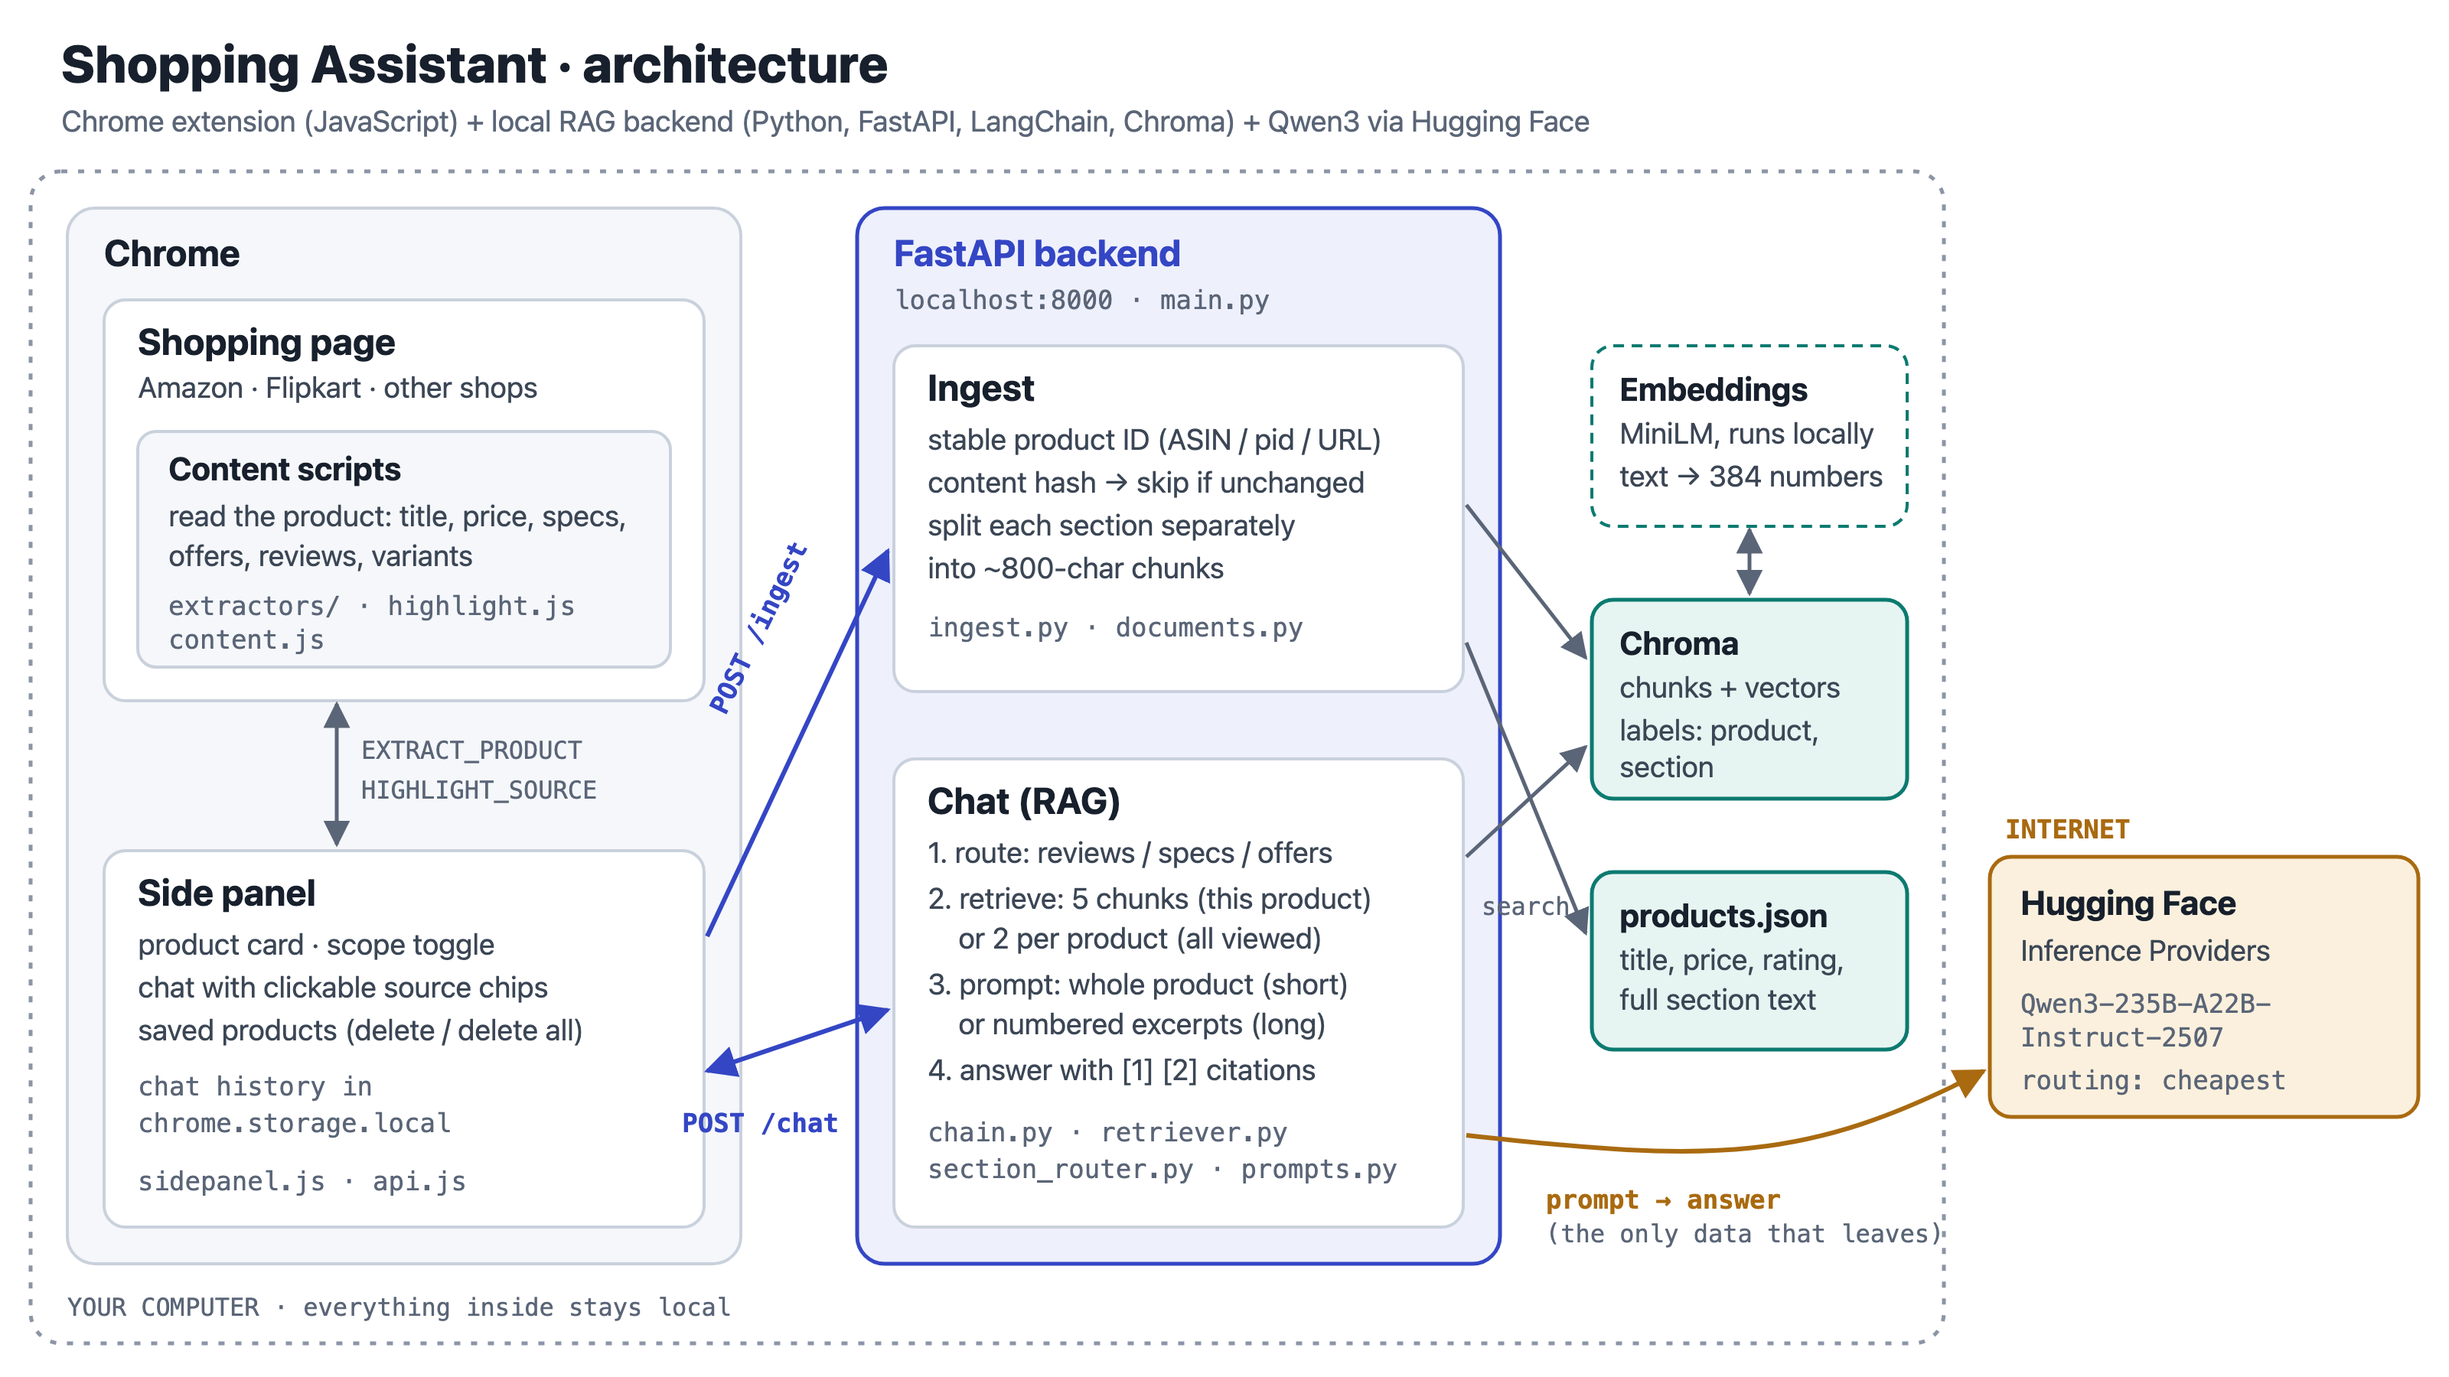
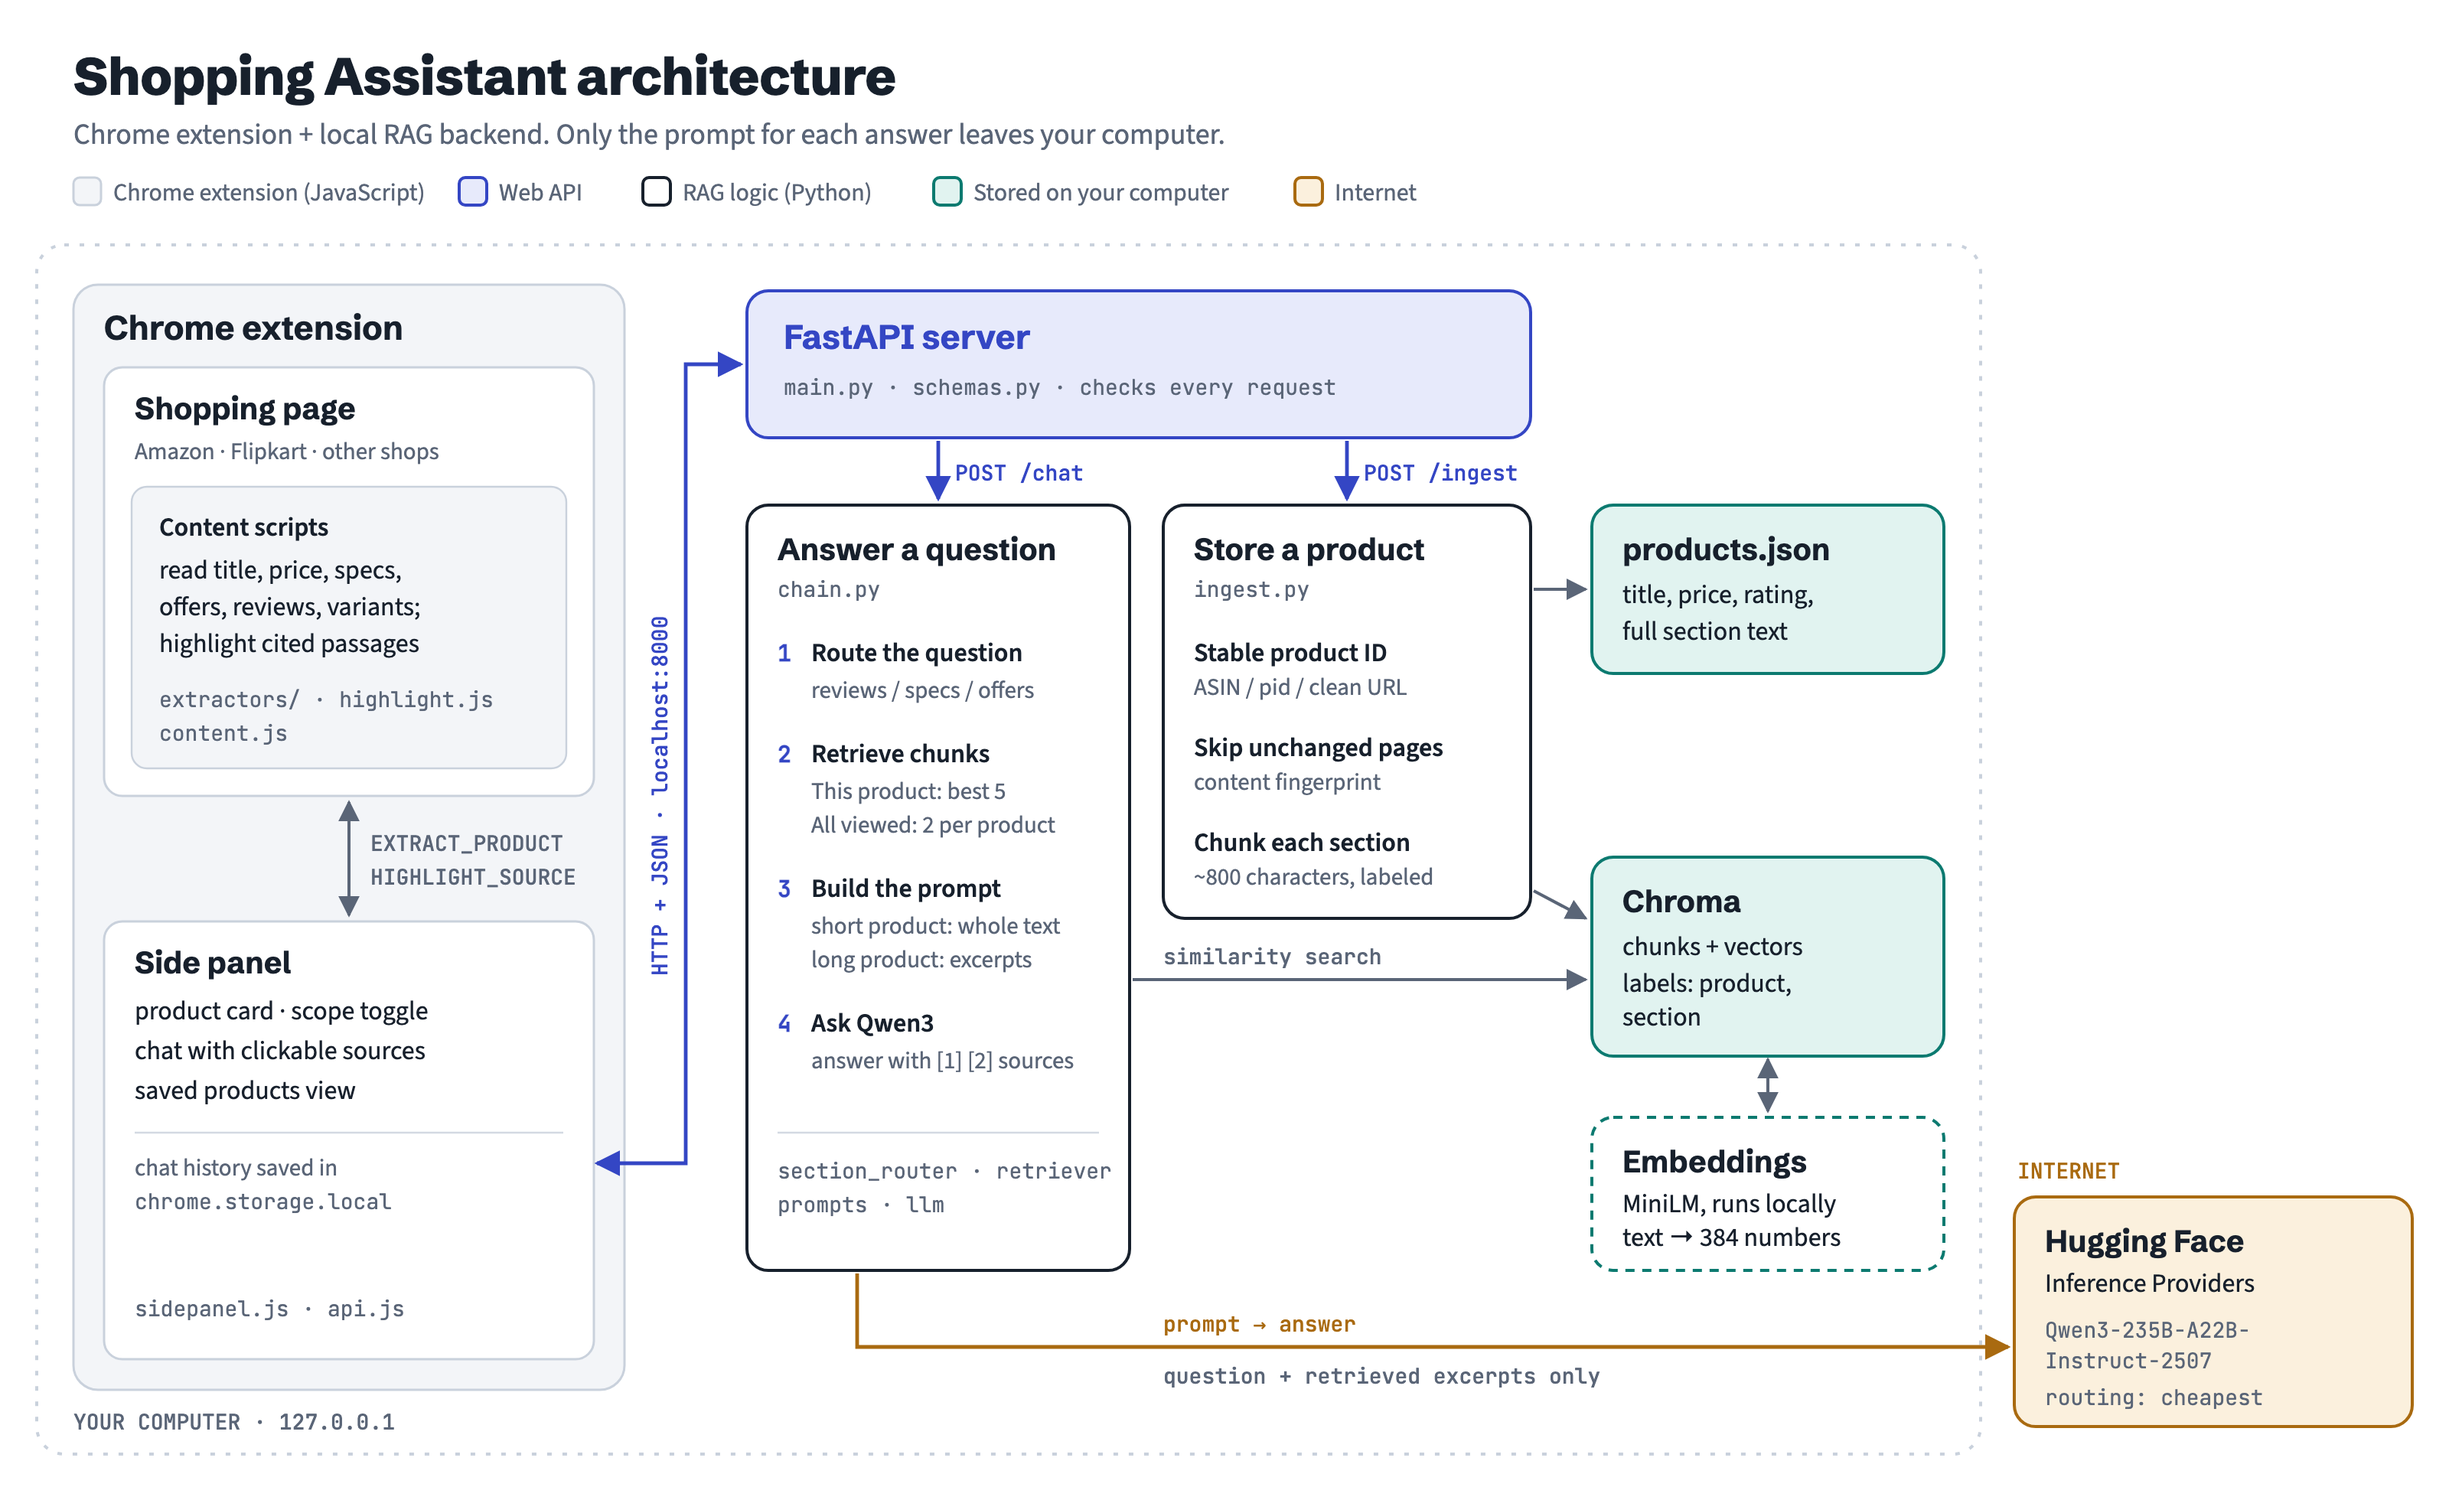
Improve architecture diagram and add a dark-mode version

diff --git a/README.md b/README.md
@@ -27,7 +27,10 @@ A question about *one* product can often be answered by pasting the whole page i
 
 ## Architecture
 
-![Architecture diagram](docs/architecture.png)
+<picture>
+  <source media="(prefers-color-scheme: dark)" srcset="docs/architecture-dark.png">
+  <img alt="Architecture: the Chrome extension reads the product page and chats through a local FastAPI backend, which stores chunks in Chroma and product records in products.json on your computer, and sends only the prompt to Qwen3 on Hugging Face." src="docs/architecture.png">
+</picture>
 
 The project has two independent parts that talk **only** through an HTTP API:
 
